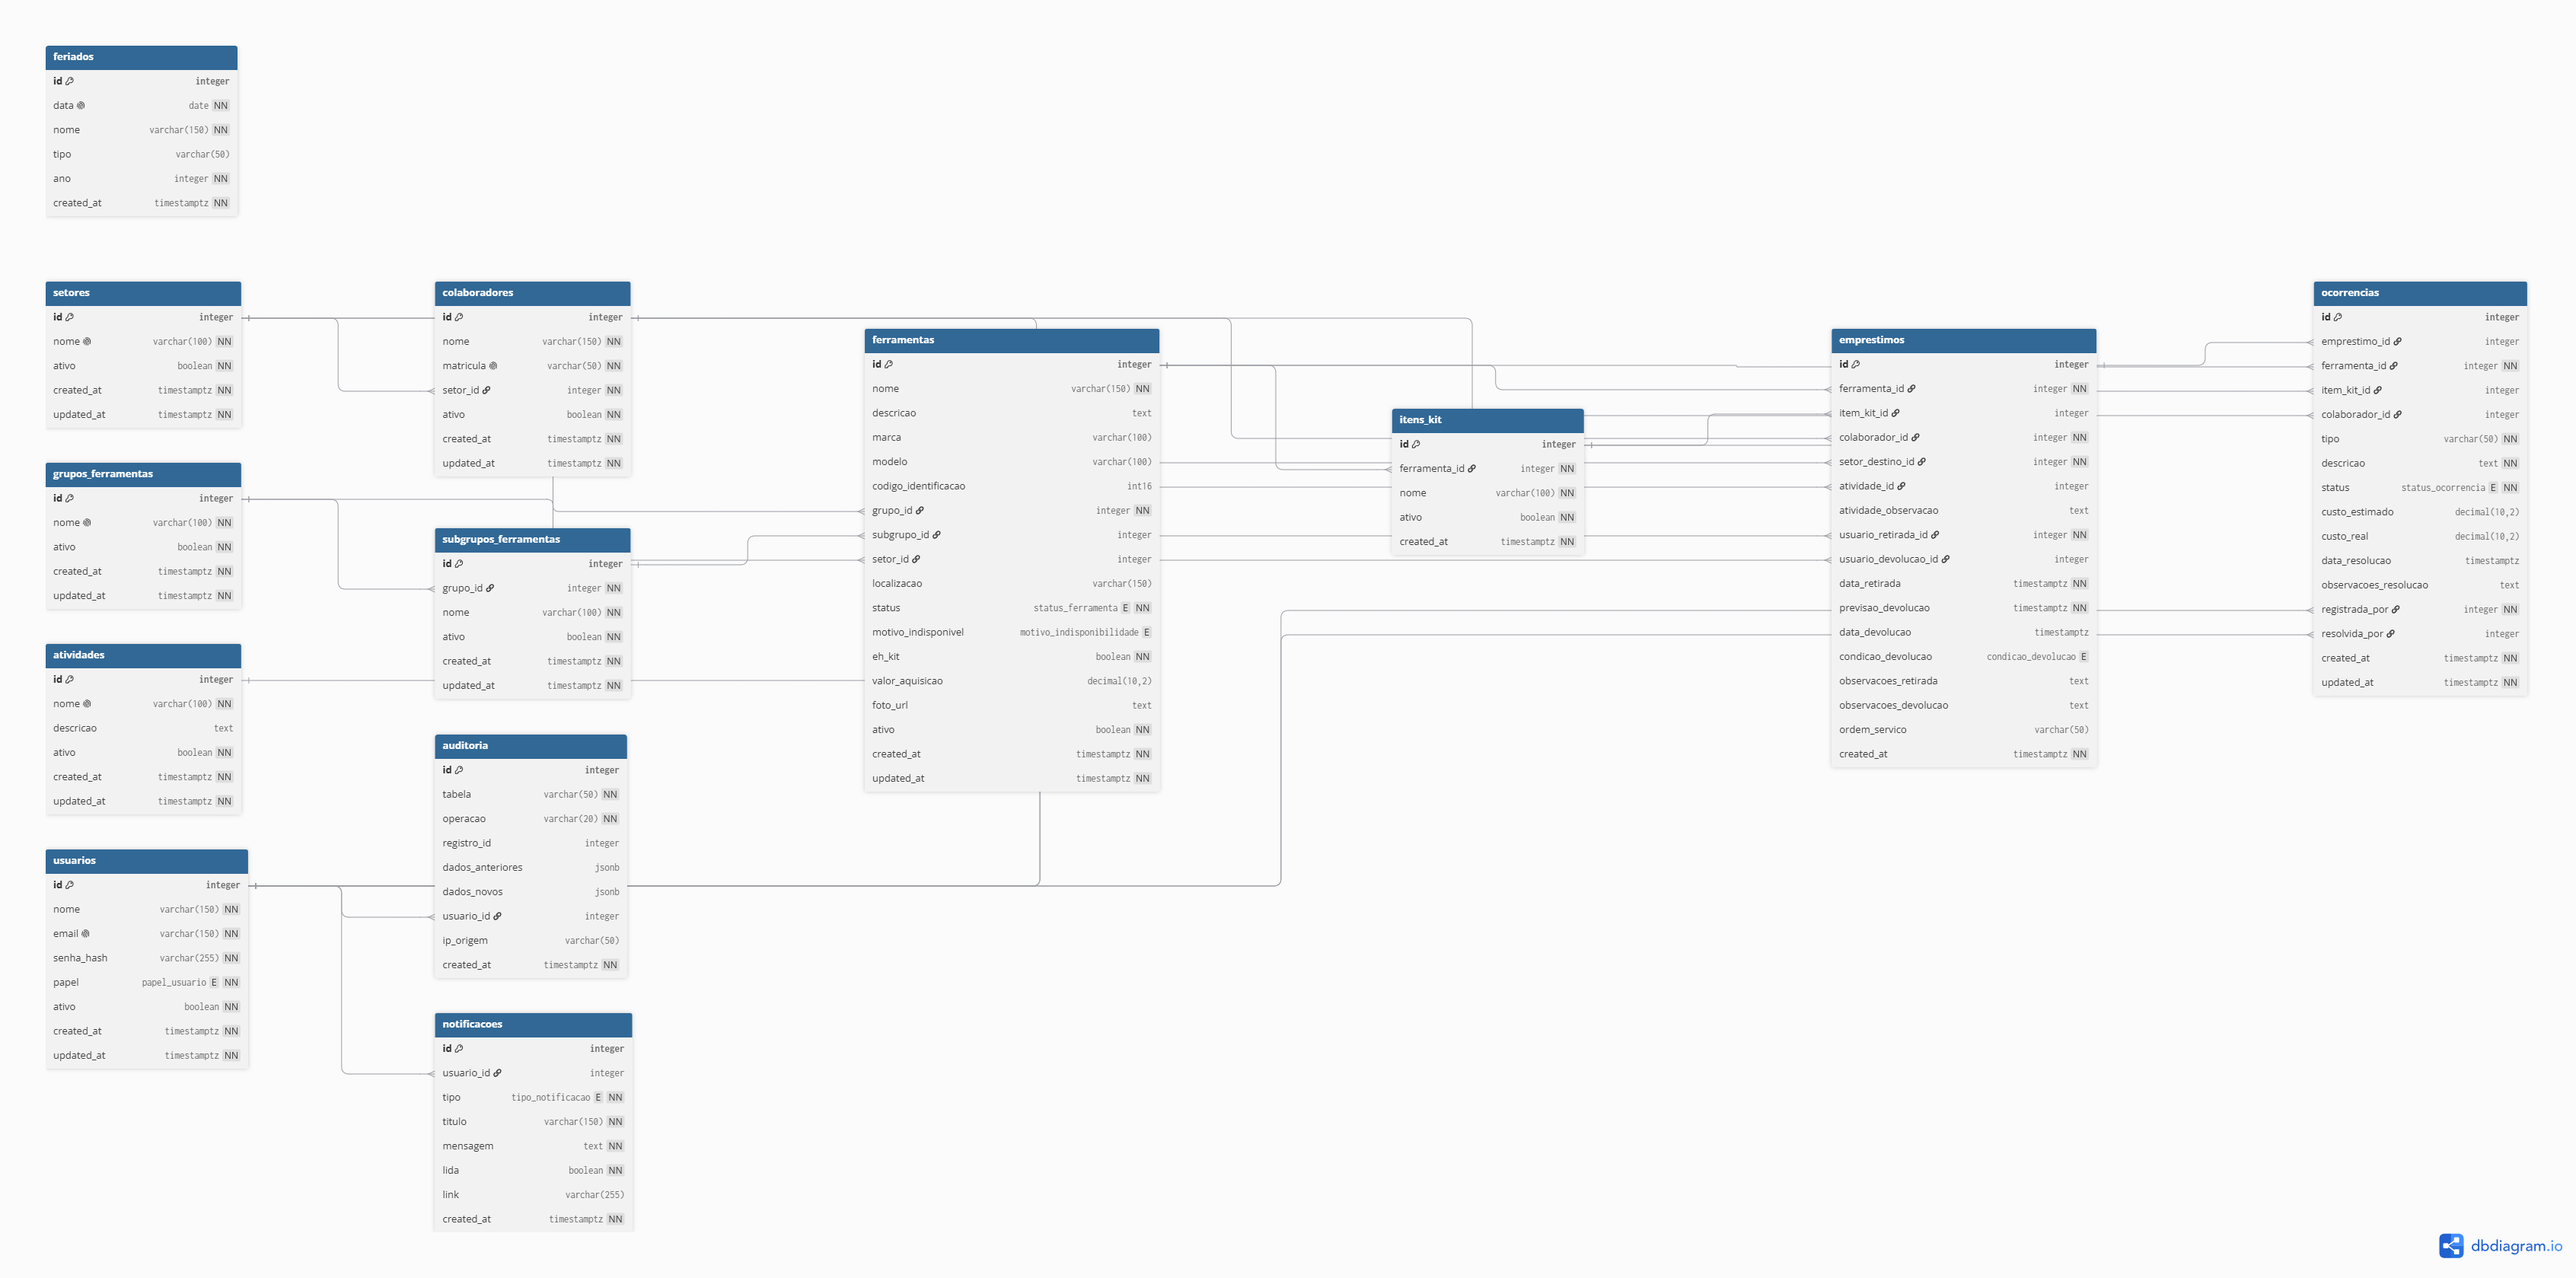
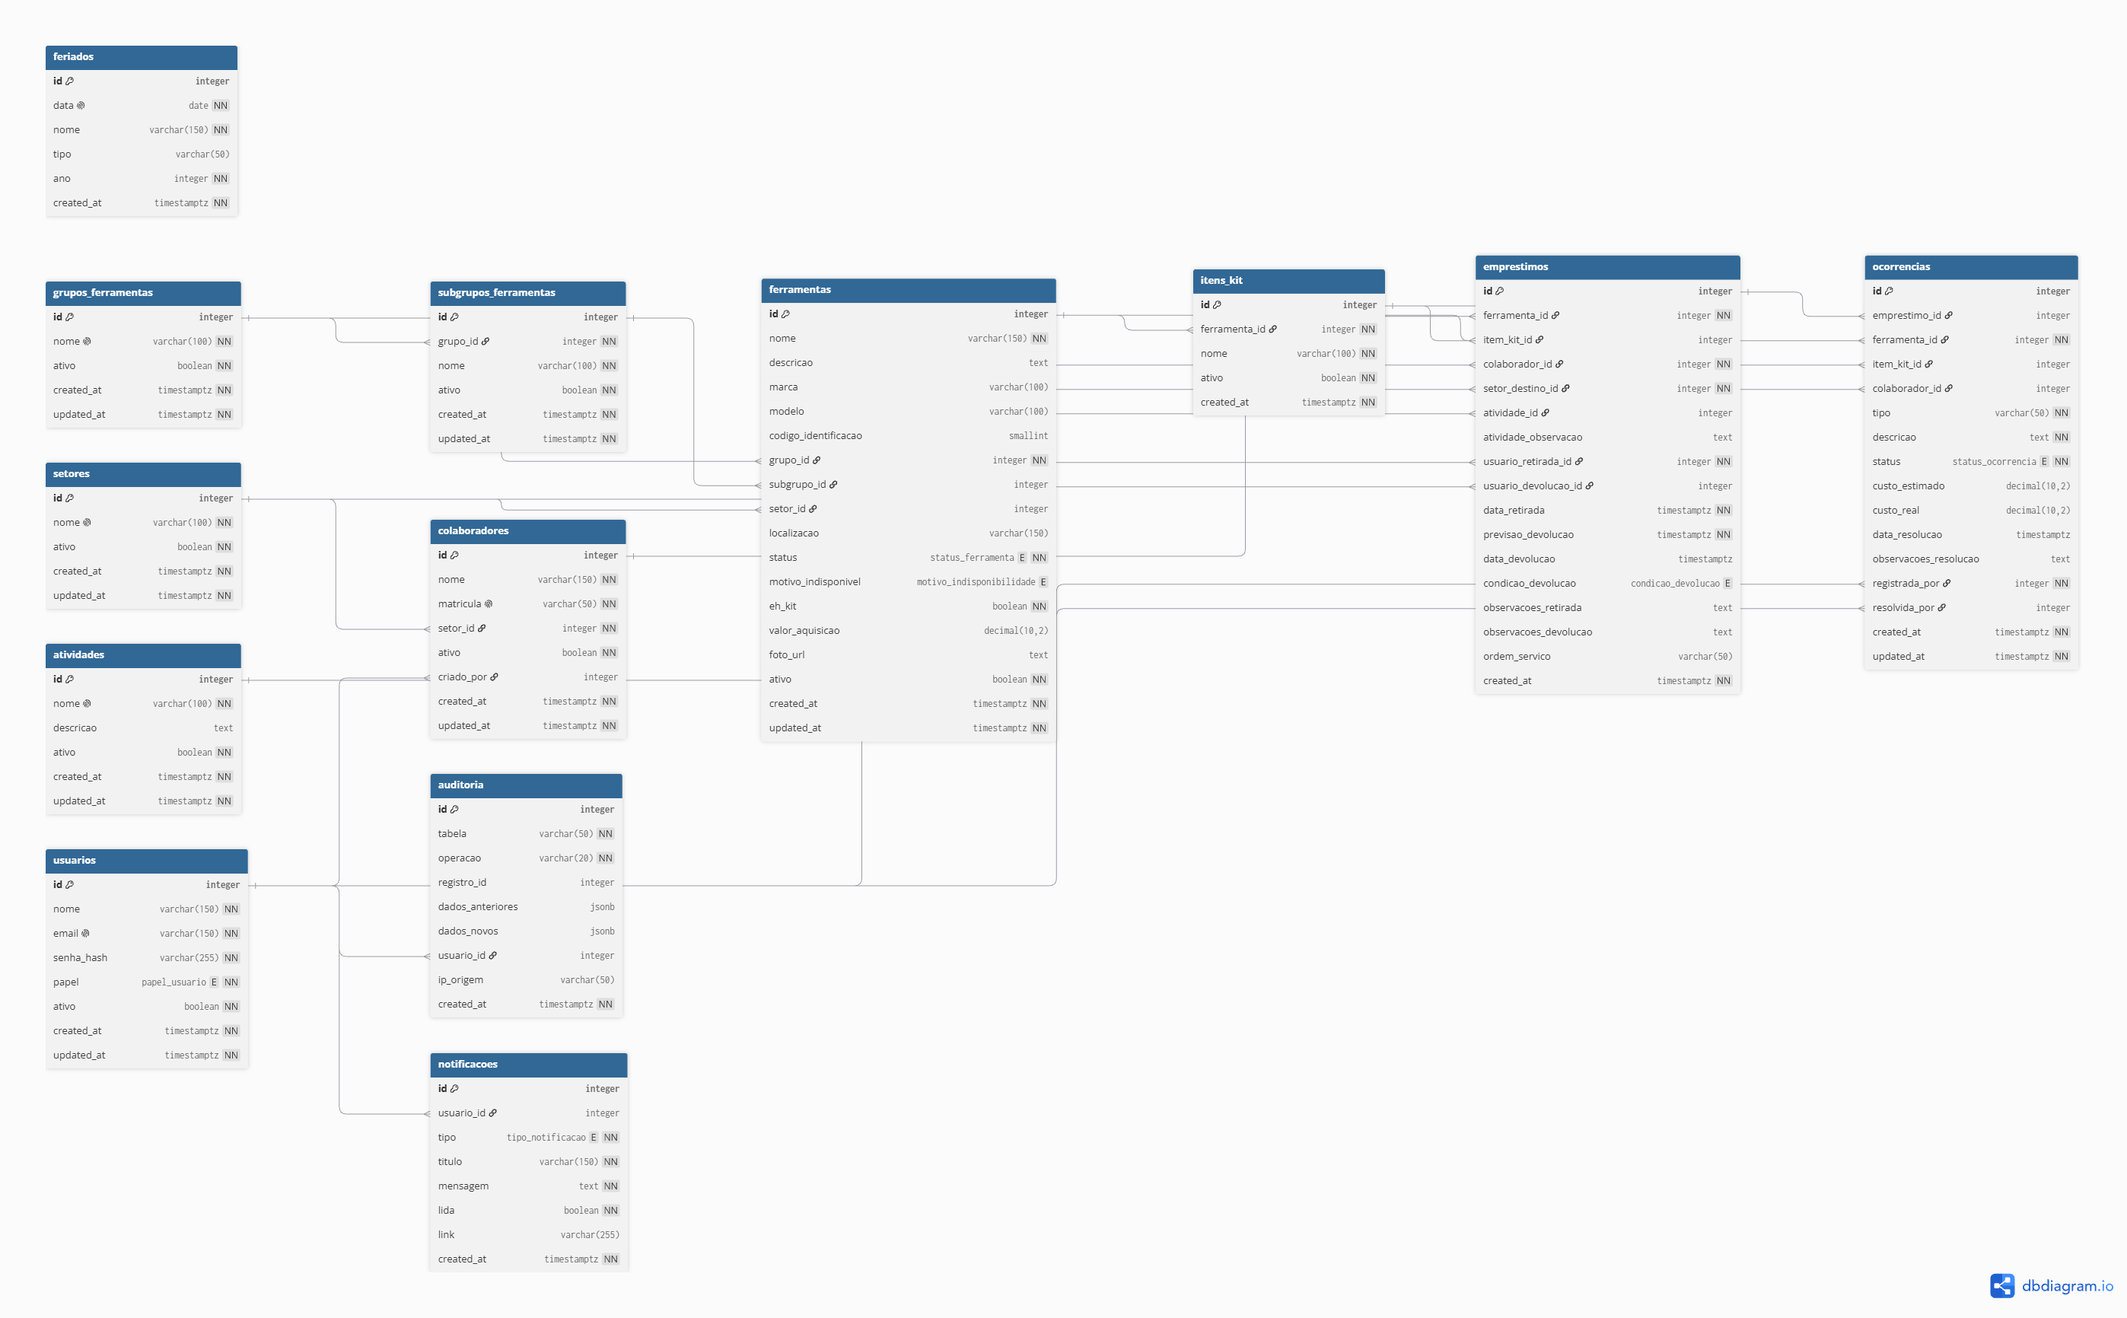
feat(api-09): adicionar criado_por e indice trigram em colaboradores
Prepara a base de dados para o CRUD e identificacao de colaboradores
(issue #45):
- coluna colaboradores.criado_por (FK usuarios, ON DELETE SET NULL),
  preenchida a partir do JWT no cadastro (Regra 6)
- funcao f_unaccent (wrapper IMMUTABLE de unaccent) e indice GIN
  idx_colaboradores_nome_trgm sobre f_unaccent(lower(nome)), para a
  busca por nome tolerante a acento/erro de digitacao em
  GET /v1/colaboradores/identificar
- seed ampliado de 20 para 50 colaboradores (MAT021-MAT050), para dar
  massa realista ao teste de desempenho do indice
- DER, dicionario de dados e der.dbml atualizados

diff --git a/docs/banco-de-dados/der-documentacao.md b/docs/banco-de-dados/der-documentacao.md
@@ -81,14 +81,36 @@ sem nenhuma FK e sem papel transacional. `itens_kit` entrou no grupo
 "Cadastro" (mesma cor de `ferramentas`), já que é uma extensão direta do
 cadastro de ferramenta, não um evento.
 
+### 2.7 `colaboradores.criado_por` e índice de busca por nome (API-09)
+A API-09 (identificação e cadastro rápido de colaborador) exigiu duas
+adições em `colaboradores`, sem mudar o restante do modelo:
+- **`criado_por`** (FK opcional para `usuarios`, `ON DELETE SET NULL`): guarda
+  quem fez o cadastro, sempre a partir do JWT (Regra 6). É nulo nos registros
+  do seed. Nova relação no diagrama: `usuarios` 1 — N `colaboradores`.
+- **`idx_colaboradores_nome_trgm`**: índice GIN (`gin_trgm_ops`) sobre
+  `f_unaccent(lower(nome))`, para achar "joao augusto" em "João Augusto".
+  `f_unaccent` é um wrapper `IMMUTABLE` de `unaccent()`, exigido pelo Postgres
+  para indexar expressões. Índices não aparecem no desenho, só nas notas do
+  `der.dbml` e no dicionário de dados.
+
 ---
 
 ## 3. Como usar os arquivos entregues
 
 - **`der-visual-dbdiagram.png`** — imagem final, para os slides de apresentação e o README.
+  Regerar sempre que o `der.dbml` mudar (passo a passo abaixo).
 - **`der.dbml`** — cole em [dbdiagram.io](https://dbdiagram.io) → "Import
   DBML" para editar visualmente. Exporte de volta como `.dbml` para manter os
   dois em sincronia.
+
+### Como regerar o PNG
+1. Abra [dbdiagram.io](https://dbdiagram.io) e crie um diagrama novo (ou abra
+   o existente).
+2. Apague o conteúdo do editor e cole todo o `der.dbml`.
+3. Confira as cores dos grupos de tabelas e reposicione as tabelas se
+   necessário (`criado_por` cria uma linha de `usuarios` para `colaboradores`).
+4. Menu **Export → Export to PNG** e salve como `der-visual-dbdiagram.png`,
+   substituindo o arquivo desta pasta.
 
 ---
 

diff --git a/docs/banco-de-dados/dicionario-de-dados.md b/docs/banco-de-dados/dicionario-de-dados.md
@@ -115,11 +115,17 @@ Funcionários que retiram ferramentas — não têm login no sistema.
 | `matricula` | varchar(50) | Sim | único | Digitado |
 | `setor_id` | integer (FK) | Sim | referencia `setores` | Selecionado |
 | `ativo` | boolean | Sim | true / false — default true | Calculado (default) |
+| `criado_por` | integer (FK) | Não | referencia `usuarios` — nulo em registros do seed | **Token** |
 | `created_at` | timestamptz | Sim | — | Calculado (default) |
 | `updated_at` | timestamptz | Sim | — | Calculado (default) |
 
 **Índices/constraints relevantes:** `UNIQUE(matricula)`. FK `setor_id` com
-`ON DELETE RESTRICT`.
+`ON DELETE RESTRICT`. FK `criado_por` com `ON DELETE SET NULL`.
+`idx_colaboradores_nome_trgm` — GIN (`gin_trgm_ops`) sobre
+`f_unaccent(lower(nome))`, usado na busca por nome do
+`GET /v1/colaboradores/identificar` (tolerante a acento e erro de digitação).
+`f_unaccent` é um wrapper `IMMUTABLE` de `unaccent()`, necessário para poder
+indexar a expressão.
 
 > Simplificado na revisão de 02/09/2026: **sem** `codigo_cracha`, **sem**
 > `cargo`, **sem** `ramal` — o fluxo real validado na visita técnica usa só
